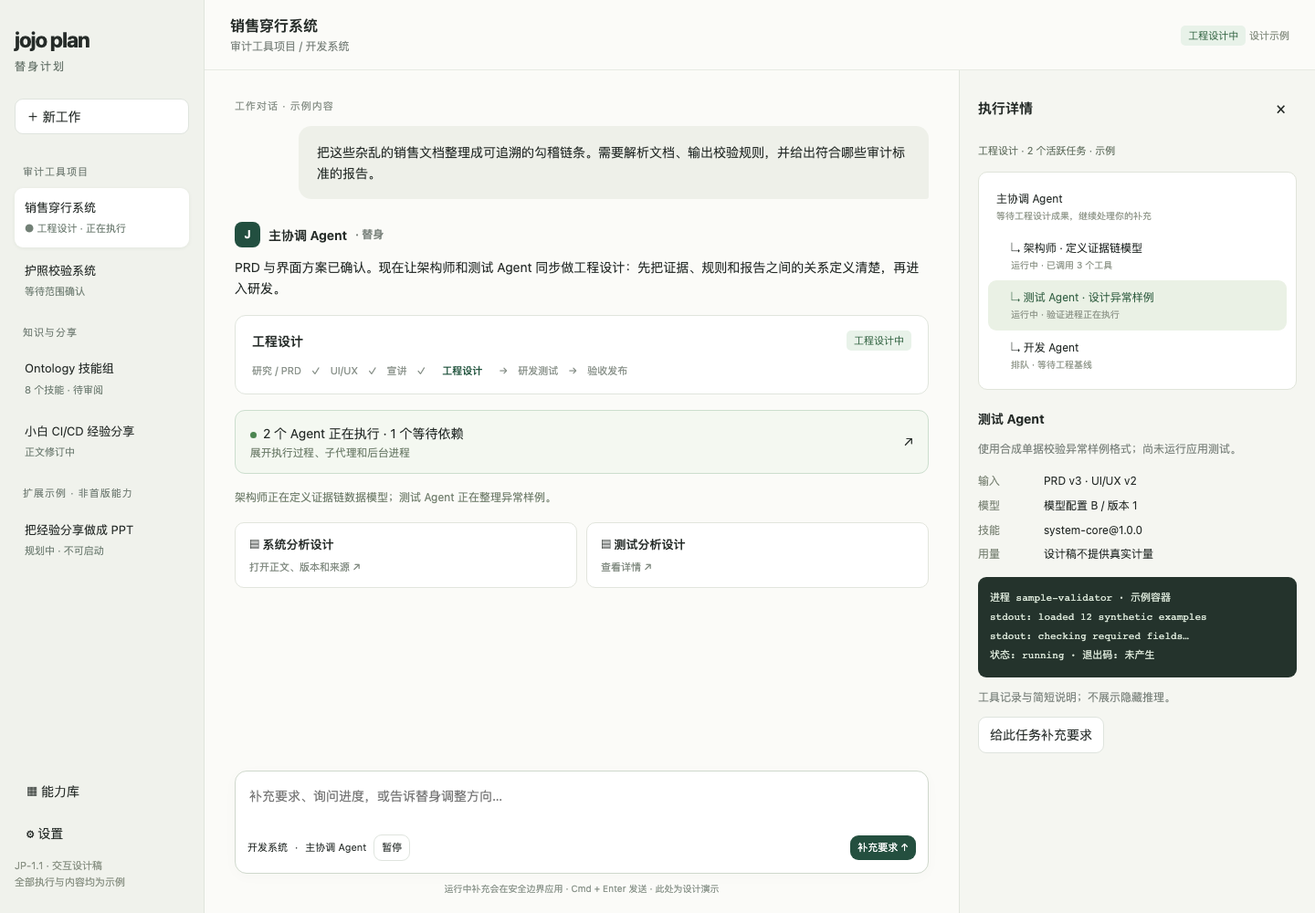
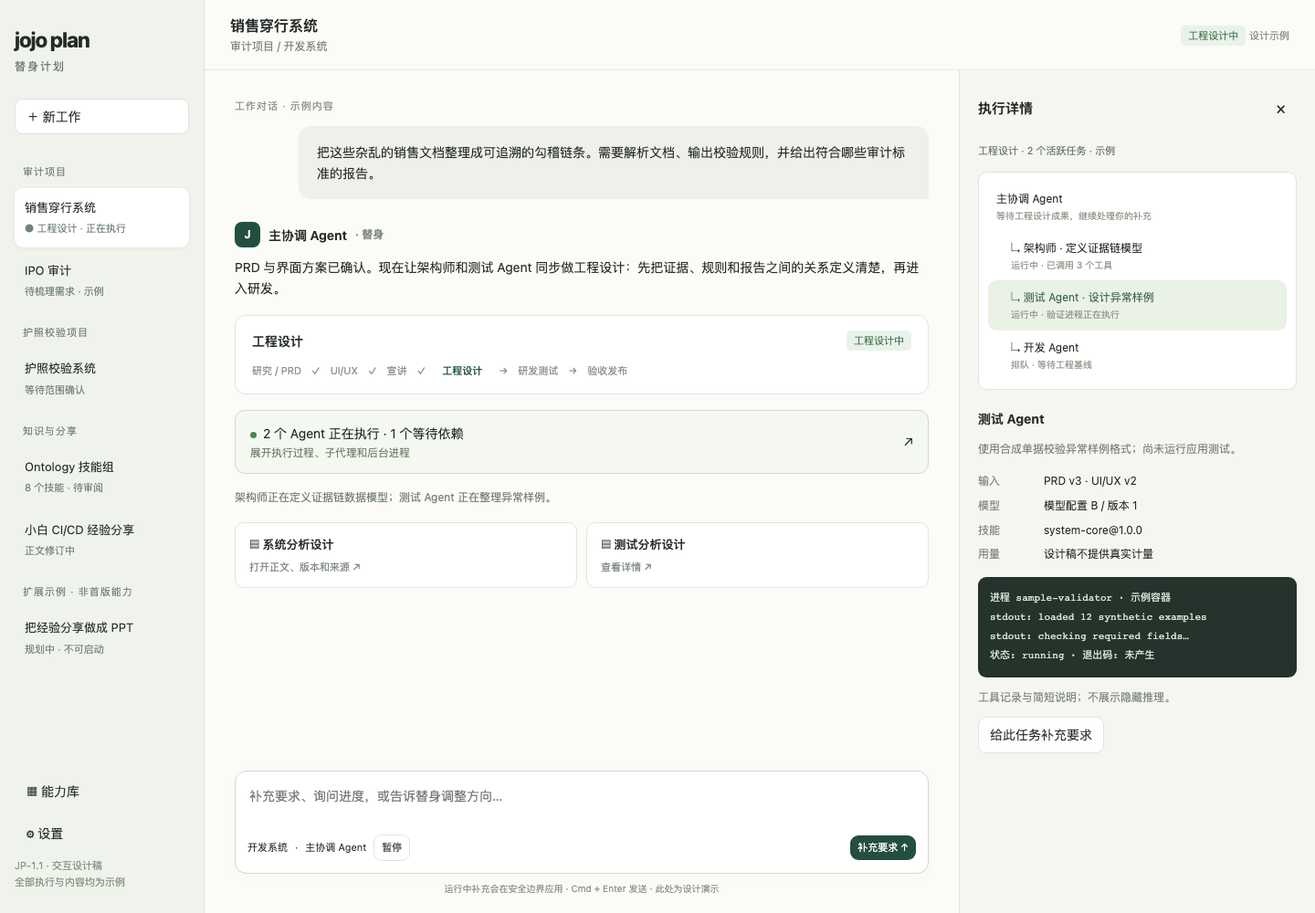
Correct audit and passport project hierarchy

diff --git a/docs/design/screenboard.html b/docs/design/screenboard.html
@@ -2,7 +2,7 @@
 <style>
 *{box-sizing:border-box}body{margin:0;font:14px/1.65 -apple-system,BlinkMacSystemFont,"PingFang SC",sans-serif;color:#252b28;background:#fbfbf8}button,input,textarea,select{font:inherit}button{cursor:pointer;color:inherit}button:focus-visible,textarea:focus-visible,select:focus-visible{outline:3px solid #438c72;outline-offset:3px}button{border:1px solid #dfe4de;background:white;border-radius:9px;padding:7px 12px}button:hover{background:#eef3ee}.app{display:flex;height:100vh;min-height:550px;overflow:hidden}.side{width:224px;flex-shrink:0;background:#f0f2ec;border-right:1px solid #e0e5dc;padding:25px 16px;display:flex;flex-direction:column}.brand{font-size:23px;font-weight:750;letter-spacing:-1px}.brand small{display:block;font-size:12px;letter-spacing:2px;font-weight:400;color:#67746b}.new{margin:25px 0 18px;width:100%;text-align:left}.caption{color:#758078;font-size:11px;letter-spacing:1px;margin:14px 9px 7px}.tasknav{border:0;background:transparent;width:100%;text-align:left;padding:11px;border-radius:9px;margin:2px 0;font-size:13px}.tasknav.active{background:white;box-shadow:0 1px 4px #233b2710}.tasknav small{display:block;color:#728076;font-size:11px;margin-top:3px}.sidebottom{margin-top:auto;display:grid;gap:7px;padding-top:20px}.sidebottom button{text-align:left;background:transparent;border-color:transparent}.main{flex:1;min-width:0;display:flex;flex-direction:column;position:relative}.top{height:77px;flex-shrink:0;border-bottom:1px solid #e7eae3;padding:15px 28px;display:flex;justify-content:space-between;align-items:center;gap:12px}.title{font-weight:650;font-size:16px}.sub{font-size:12px;color:#7c847e}.tag{display:inline-block;font-size:11px;padding:2px 8px;border-radius:5px;background:#e8f2e9;color:#3c6b4b}.tag.amber{background:#faf0d8;color:#956529}.layout{flex:1;min-height:0;display:flex;position:relative}.conversation{flex:1;min-width:0;display:flex;flex-direction:column}.timeline{flex:1;overflow:auto;padding:30px max(24px,calc((100% - 760px)/2)) 22px}.eyebrow{color:#8b938b;font-size:11px;letter-spacing:1px}.user{margin:13px 0 25px 70px;background:#eef0e9;border-radius:14px 14px 3px 14px;padding:17px 20px;font-size:14px}.agenthead{display:flex;align-items:center;gap:9px;font-weight:650;margin:18px 0 10px}.avatar{display:inline-grid;place-items:center;background:#224f40;color:#fff;border-radius:8px;width:28px;height:28px;font-size:12px}.message p{margin:9px 0 16px}.plan{border:1px solid #e0e5dd;border-radius:12px;background:white;padding:16px 18px;margin:17px 0}.planline{display:flex;justify-content:space-between;gap:12px;align-items:center}.steps{display:flex;gap:7px;margin-top:12px;flex-wrap:wrap;color:#8b938c;font-size:11px}.steps b{color:#245640}.running{border:1px solid #ccdece;border-radius:11px;background:#f4f8f1;padding:13px 16px;display:flex;align-items:center;justify-content:space-between;gap:12px;width:100%;text-align:left}.running small{display:block;color:#71806e}.dot{display:inline-block;width:7px;height:7px;background:#4c8651;border-radius:50%;margin-right:7px}.artifacts{display:grid;grid-template-columns:1fr 1fr;gap:10px;margin:17px 0}.artifact{text-align:left;padding:13px 15px;border:1px solid #e2e5dd;border-radius:10px;background:white}.artifact strong{display:block;font-size:13px}.artifact small{display:block;color:#808a80;font-size:11px;margin-top:5px}.update{color:#73806f;font-size:12px;margin:16px 0}.composerwrap{padding:10px max(24px,calc((100% - 760px)/2)) 19px}.composer{border:1px solid #cfd8cc;border-radius:13px;background:white;box-shadow:0 3px 16px #23432806;padding:13px}.composer textarea{border:0;width:100%;resize:none;outline:0;background:transparent;min-height:43px}.composebar{display:flex;align-items:center;gap:8px;font-size:11px;flex-wrap:wrap}.composebar button,.composebar select{font-size:11px;padding:4px 8px}.composebar select{border:0;background:#f2f4ee;border-radius:6px;max-width:160px}.send{margin-left:auto!important;background:#244f3f!important;color:white!important;border:0}.hint{font-size:10px;color:#8b958c;text-align:center;margin-top:8px}.inspector{display:none;width:390px;flex-shrink:0;border-left:1px solid #e0e5dd;background:#f5f6f1;overflow:auto;padding:20px}.inspector.open{display:block}.inshead{display:flex;justify-content:space-between;align-items:center;margin-bottom:15px}.inshead h3{font-size:15px;margin:0}.close{border:0;background:transparent;font-size:18px}.tree{border:1px solid #e0e4da;border-radius:10px;background:white;padding:10px;margin:14px 0}.tree button{display:block;text-align:left;width:100%;border:0;font-size:12px;background:transparent;padding:9px}.tree button.child{padding-left:25px}.tree button.selected{background:#eaf1e5;color:#366246}.tree small{display:block;color:#92998d}.detailtitle{font-size:14px;margin:20px 0 8px}.kv{display:grid;grid-template-columns:65px 1fr;gap:7px;font-size:12px;margin:15px 0}.kv dt{color:#7f887a}.kv dd{margin:0;overflow-wrap:anywhere}.log{background:#24332c;color:#d8e4d6;border-radius:9px;padding:13px;font:11px/1.9 ui-monospace,monospace;white-space:pre-wrap;overflow-wrap:anywhere}.notebox{background:#fbf3e1;border:1px solid #eee0bc;border-radius:8px;padding:10px 12px;font-size:12px;color:#81653c;margin:12px 0}.screen{display:none;overflow:auto;padding:36px;flex:1}.screen.active{display:block}.screen h1{font-size:28px;margin:15px 0}.lead{color:#717d70}.start{max-width:720px;margin:40px auto}.types{display:grid;grid-template-columns:repeat(3,1fr);gap:12px;margin:26px 0}.types button{text-align:left;padding:19px}.types small{display:block;color:#8a9386}.library{display:grid;grid-template-columns:repeat(2,minmax(0,1fr));gap:16px;max-width:900px}.card{padding:22px;background:white;border:1px solid #e0e5da;border-radius:12px}.card h3{margin:0 0 8px}.card p{font-size:13px;color:#717d70}.mocknotice{font-size:11px;color:#8b9386}.paper{background:white;border:1px solid #e5e8df;border-radius:8px;padding:20px;font-size:12px}.paper h2{font-size:18px}.paper h3{font-size:13px}.paper code{color:#3d7552}.deck{background:#e5eadf;border-radius:7px;padding:24px 18px;margin-top:14px;aspect-ratio:16/9}.deck h2{margin:0;font-size:24px;color:#244d3a}.deck p{font-size:11px}.statusline{font-size:11px;color:#6a7768}.hidden{display:none!important}@media(max-width:1250px){.inspector.open{position:absolute;right:0;top:0;bottom:0;width:min(440px,85%);z-index:4;box-shadow:-14px 0 50px #20352918}.side{width:200px}.timeline,.composerwrap{padding-left:28px;padding-right:28px}}@media(max-width:750px){.side{width:150px;padding:15px 8px}.top{padding:12px}.timeline,.composerwrap{padding-left:15px;padding-right:15px}.user{margin-left:15px}.artifacts,.types,.library{grid-template-columns:1fr}.screen{padding:20px}.top .mocknotice{display:none}}
 </style>
-<div class="app"><aside class="side"><div class="brand">jojo plan<small>替身计划</small></div><button class="new" data-screen="UI-01">＋ 新工作</button><div class="caption">审计工具项目</div><button class="tasknav active" data-task="system">销售穿行系统<small>● 工程设计 · 正在执行</small></button><button class="tasknav" data-task="passport">护照校验系统<small>等待范围确认</small></button><div class="caption">知识与分享</div><button class="tasknav" data-task="skill">Ontology 技能组<small>8 个技能 · 待审阅</small></button><button class="tasknav" data-task="document">小白 CI/CD 经验分享<small>正文修订中</small></button><div class="caption">扩展示例 · 非首版能力</div><button class="tasknav" data-task="presentation">把经验分享做成 PPT<small>规划中 · 不可启动</small></button><div class="sidebottom"><button data-screen="UI-04">▦ 能力库</button><button data-screen="UI-05">⚙ 设置</button><div class="mocknotice">JP-1.1 · 交互设计稿<br>全部执行与内容均为示例</div></div></aside><main class="main"><header class="top"><div><div class="title" id="worktitle">销售穿行系统</div><div class="sub" id="worksubtitle">审计工具项目 / 开发系统</div></div><div><span class="tag" id="state">工程设计中</span> <span class="mocknotice">设计示例</span></div></header>
+<div class="app"><aside class="side"><div class="brand">jojo plan<small>替身计划</small></div><button class="new" data-screen="UI-01">＋ 新工作</button><div class="caption">审计项目</div><button class="tasknav active" data-task="system">销售穿行系统<small>● 工程设计 · 正在执行</small></button><button class="tasknav" data-task="ipo">IPO 审计<small>待梳理需求 · 示例</small></button><div class="caption">护照校验项目</div><button class="tasknav" data-task="passport">护照校验系统<small>等待范围确认</small></button><div class="caption">知识与分享</div><button class="tasknav" data-task="skill">Ontology 技能组<small>8 个技能 · 待审阅</small></button><button class="tasknav" data-task="document">小白 CI/CD 经验分享<small>正文修订中</small></button><div class="caption">扩展示例 · 非首版能力</div><button class="tasknav" data-task="presentation">把经验分享做成 PPT<small>规划中 · 不可启动</small></button><div class="sidebottom"><button data-screen="UI-04">▦ 能力库</button><button data-screen="UI-05">⚙ 设置</button><div class="mocknotice">JP-1.1 · 交互设计稿<br>全部执行与内容均为示例</div></div></aside><main class="main"><header class="top"><div><div class="title" id="worktitle">销售穿行系统</div><div class="sub" id="worksubtitle">审计项目 / 开发系统</div></div><div><span class="tag" id="state">工程设计中</span> <span class="mocknotice">设计示例</span></div></header>
 <section class="screen" id="UI-01"><div class="start"><div class="eyebrow">一段对话，一起把工作做完</div><h1>这次想完成什么？</h1><p class="lead">给替身一个目标。它会整理计划、加载技能，并在关键阶段与你确认。</p><div class="types"><button data-task="skill">制作 Skill<small>研究 → 方法 → 可复用技能</small></button><button data-task="document">写文档<small>大纲 → 内容 → 证据核查</small></button><button data-task="system">开发系统<small>产品 → 设计 → 研发交付</small></button></div><div class="composer"><textarea aria-label="新的工作目标" placeholder="例如：根据这些销售单据，开发一个能追溯勾稽链条的审计系统"></textarea><div class="composebar"><span>材料、期望成果也可以稍后补充</span><button class="send" id="example">查看示例工作</button></div></div><p class="mocknotice">实际产品会先显示启动计划、预算和权限；本稿仅演示界面结构。</p></div></section>
 <div class="layout" id="UI-02"><section class="conversation"><div class="timeline" id="timeline" aria-label="工作对话"></div><div class="composerwrap"><div class="composer"><textarea id="input" aria-label="补充工作要求" placeholder="补充要求、询问进度，或告诉替身调整方向…"></textarea><div class="composebar"><span id="typechip">开发系统</span><span>·</span><span>主协调 Agent</span><button id="pause">暂停</button><button class="send" id="send">补充要求 ↑</button></div></div><div class="hint" id="hint">运行中补充会在安全边界应用 · Cmd + Enter 发送 · 此处为设计演示</div></div></section><aside class="inspector" id="UI-03" aria-label="工作详情"></aside></div>
 <section class="screen" id="UI-04"><div class="eyebrow">能力库 / 工作包</div><h1>同一个工作区，不同的工作方法</h1><p class="lead">工作包组合阶段、角色、技能与工具。新工作类型不会增加一排导航。</p><div class="library"><div class="card"><h3>制作 Skill <span class="tag">首版</span></h3><p>调研、编写、验证与审阅。技能和技能组保留版本。</p><button data-task="skill">查看示例</button></div><div class="card"><h3>写文档 <span class="tag">首版</span></h3><p>大纲、正文、来源核查，多格式交付。</p><button data-task="document">查看示例</button></div><div class="card"><h3>开发系统 <span class="tag">首版</span></h3><p>产品 → UX → 工程设计 → 研发测试 → 综合验收 → 发布。</p><button data-task="system">查看示例</button></div><div class="card"><h3>写 PPT <span class="tag amber">规划中</span></h3><p>需求 → 故事线 → 逐页内容 → 排版渲染 → 审阅。待接入 PPTX 生成和渲染能力。</p><button data-task="presentation">查看扩展说明</button></div></div></section>
@@ -10,9 +10,9 @@
 </main></div>
 <script>
 const $=s=>document.querySelector(s);let current='system',selectedAgent='architect',lastTrigger=null;
-const data={system:{title:'销售穿行系统',sub:'审计工具项目 / 开发系统',type:'开发系统',state:'工程设计中',user:'把这些杂乱的销售文档整理成可追溯的勾稽链条。需要解析文档、输出校验规则，并给出符合哪些审计标准的报告。',reply:'PRD 与界面方案已确认。现在让架构师和测试 Agent 同步做工程设计：先把证据、规则和报告之间的关系定义清楚，再进入研发。',plan:'工程设计',steps:'研究 / PRD　✓　UI/UX　✓　宣讲　✓　<b>工程设计</b>　→　研发测试　→　验收发布',run:'2 个 Agent 正在执行 · 1 个等待依赖',activity:'架构师正在定义证据链数据模型；测试 Agent 正在整理异常样例。',a:'系统分析设计',b:'测试分析设计'},passport:{title:'护照校验系统',sub:'审计工具项目 / 开发系统',type:'开发系统',state:'等待范围确认',user:'客户会传来一张带人脸的护照页图片，需要判断它是不是假的。',reply:'我会先研究单张图片能支持哪些判断。图片篡改风险、版式异常和证件真伪不是同一个结论，先明确输出边界，再让团队设计系统。',plan:'研究与需求范围',steps:'<b>研究 / PRD</b>　→　UI/UX　→　工程设计　→　研发测试',run:'待你确认 · 当前没有活跃 Agent',activity:'建议输出可疑点与证据不足状态；正式范围需在 PRD 审阅卡确认。',a:'能力范围研究',b:'待确认问题'},skill:{title:'Ontology 技能组',sub:'知识与分享 / 制作 Skill',type:'制作 Skill',state:'待审阅',user:'把从模糊需求开展 ontology 分析的方法做成一组可复用技能。',reply:'8 个技能的草稿已整理成一个版本化技能组。每个技能说明输入、输出和适用范围；下一步审阅组内依赖与验证结果。',plan:'技能组审阅',steps:'需求　✓　调研　✓　编写　✓　验证　→　<b>审阅</b>',run:'无活跃 Agent · 等待技能组审阅',activity:'这里的数量和状态仅演示界面，不表示真实技能已经生成或验证。',a:'Ontology 技能组',b:'技能验证报告'},document:{title:'小白 CI/CD 经验分享',sub:'知识与分享 / 写文档',type:'写文档',state:'正文修订中',user:'整理一份小白也能看懂的 CI/CD 经验分享，讲清楚我遇到的问题和解决办法。',reply:'我会保留你提供的真实经历，把流水线概念放在具体例子里解释。写作 Agent 正在调整内容，缺少原始经历的部分会标为待补充。',plan:'正文与来源核查',steps:'需求　✓　大纲　✓　<b>正文修订</b>　→　核查　→　审阅',run:'1 个 Agent 正在执行',activity:'写作 Agent：将部署失败案例改写为步骤和排查清单。',a:'经验分享 · 草稿',b:'来源与待补充项'},presentation:{title:'把经验分享做成 PPT',sub:'扩展示例 / 规划中的工作包',type:'写 PPT · 规划中',state:'尚不可启动',user:'把这份 CI/CD 经验分享做成面向新人培训的 PPT，保留可编辑版本和讲稿。',reply:'这是一种新的工作类型，仍使用这条对话、执行详情和成果预览。接入 PPTX 生成与渲染能力后，替身才能按下面的流程工作；当前仅展示扩展方案。',plan:'拟议 PPT 工作流程',steps:'需求　→　故事线　→　逐页内容　→　排版渲染　→　审阅',run:'缺少 2 项能力 · 没有真实执行',activity:'需要接入 pptx.generate 与 pptx.render，并通过可编辑性和页面渲染检查。',a:'故事线 · 示例',b:'页面预览 · 示例'}};
+const data={system:{title:'销售穿行系统',sub:'审计项目 / 开发系统',type:'开发系统',state:'工程设计中',user:'把这些杂乱的销售文档整理成可追溯的勾稽链条。需要解析文档、输出校验规则，并给出符合哪些审计标准的报告。',reply:'PRD 与界面方案已确认。现在让架构师和测试 Agent 同步做工程设计：先把证据、规则和报告之间的关系定义清楚，再进入研发。',plan:'工程设计',steps:'研究 / PRD　✓　UI/UX　✓　宣讲　✓　<b>工程设计</b>　→　研发测试　→　验收发布',run:'2 个 Agent 正在执行 · 1 个等待依赖',activity:'架构师正在定义证据链数据模型；测试 Agent 正在整理异常样例。',a:'系统分析设计',b:'测试分析设计'},ipo:{title:'IPO 审计',sub:'审计项目 / 开发系统',type:'开发系统',state:'待梳理需求',user:'在审计项目中开展 IPO 审计相关工作。',reply:'先明确此次工作的目标、适用范围和交付物，再选择需要加载的流程和技能。当前仅展示项目归属，不预设具体审计要求。',plan:'需求梳理',steps:'<b>明确目标与范围</b>　→　确定交付物　→　制定计划',run:'尚未启动 · 当前没有活跃 Agent',activity:'IPO 审计与销售穿行属于同一个审计项目，各自保留工作对话和成果。',a:'需求范围 · 待整理',b:'交付清单 · 待明确'},passport:{title:'护照校验系统',sub:'护照校验项目 / 开发系统',type:'开发系统',state:'等待范围确认',user:'客户会传来一张带人脸的护照页图片，需要判断它是不是假的。',reply:'我会先研究单张图片能支持哪些判断。图片篡改风险、版式异常和证件真伪不是同一个结论，先明确输出边界，再让团队设计系统。',plan:'研究与需求范围',steps:'<b>研究 / PRD</b>　→　UI/UX　→　工程设计　→　研发测试',run:'待你确认 · 当前没有活跃 Agent',activity:'建议输出可疑点与证据不足状态；正式范围需在 PRD 审阅卡确认。',a:'能力范围研究',b:'待确认问题'},skill:{title:'Ontology 技能组',sub:'知识与分享 / 制作 Skill',type:'制作 Skill',state:'待审阅',user:'把从模糊需求开展 ontology 分析的方法做成一组可复用技能。',reply:'8 个技能的草稿已整理成一个版本化技能组。每个技能说明输入、输出和适用范围；下一步审阅组内依赖与验证结果。',plan:'技能组审阅',steps:'需求　✓　调研　✓　编写　✓　验证　→　<b>审阅</b>',run:'无活跃 Agent · 等待技能组审阅',activity:'这里的数量和状态仅演示界面，不表示真实技能已经生成或验证。',a:'Ontology 技能组',b:'技能验证报告'},document:{title:'小白 CI/CD 经验分享',sub:'知识与分享 / 写文档',type:'写文档',state:'正文修订中',user:'整理一份小白也能看懂的 CI/CD 经验分享，讲清楚我遇到的问题和解决办法。',reply:'我会保留你提供的真实经历，把流水线概念放在具体例子里解释。写作 Agent 正在调整内容，缺少原始经历的部分会标为待补充。',plan:'正文与来源核查',steps:'需求　✓　大纲　✓　<b>正文修订</b>　→　核查　→　审阅',run:'1 个 Agent 正在执行',activity:'写作 Agent：将部署失败案例改写为步骤和排查清单。',a:'经验分享 · 草稿',b:'来源与待补充项'},presentation:{title:'把经验分享做成 PPT',sub:'扩展示例 / 规划中的工作包',type:'写 PPT · 规划中',state:'尚不可启动',user:'把这份 CI/CD 经验分享做成面向新人培训的 PPT，保留可编辑版本和讲稿。',reply:'这是一种新的工作类型，仍使用这条对话、执行详情和成果预览。接入 PPTX 生成与渲染能力后，替身才能按下面的流程工作；当前仅展示扩展方案。',plan:'拟议 PPT 工作流程',steps:'需求　→　故事线　→　逐页内容　→　排版渲染　→　审阅',run:'缺少 2 项能力 · 没有真实执行',activity:'需要接入 pptx.generate 与 pptx.render，并通过可编辑性和页面渲染检查。',a:'故事线 · 示例',b:'页面预览 · 示例'}};
 function show(id){$('.layout').classList.toggle('hidden',id!=='UI-02');document.querySelectorAll('.screen').forEach(x=>x.classList.toggle('active',x.id===id));if(id!=='UI-02'){$('#worktitle').textContent=id==='UI-01'?'开始新的工作':id==='UI-04'?'能力库':'设置';$('#worksubtitle').textContent='jojo plan · 替身计划';$('#state').textContent='设计示例';}close();}
-function task(key){current=key;show('UI-02');const d=data[key];$('#worktitle').textContent=d.title;$('#worksubtitle').textContent=d.sub;$('#state').textContent=d.state;$('#typechip').textContent=d.type;$('#input').value='';$('#pause').textContent='暂停';$('#pause').disabled=['presentation','skill','passport'].includes(key);$('#send').disabled=key==='presentation';$('#hint').textContent=key==='presentation'?'扩展设计示例 · 当前不可启动 PPT 生成':'运行中补充会在安全边界应用 · Cmd + Enter 发送 · 此处为设计演示';document.querySelectorAll('.tasknav').forEach(x=>x.classList.toggle('active',x.dataset.task===key));$('#timeline').innerHTML=`<div class="eyebrow">工作对话 · 示例内容</div><div class="user">${d.user}</div><div class="agenthead"><span class="avatar">J</span>主协调 Agent <span class="sub">· 替身</span></div><div class="message"><p>${d.reply}</p><div class="plan"><div class="planline"><strong>${d.plan}</strong><span class="tag">${d.state}</span></div><div class="steps">${d.steps}</div></div><button class="running" data-inspect="execution"><span><span class="dot"></span>${d.run}<small>展开执行过程、子代理和后台进程</small></span><span>↗</span></button><div class="update">${d.activity}</div><div class="artifacts"><button class="artifact" data-inspect="artifact"><strong>▤ ${d.a}</strong><small>打开正文、版本和来源 ↗</small></button><button class="artifact" data-inspect="secondary"><strong>▤ ${d.b}</strong><small>查看详情 ↗</small></button></div></div>`;}
+function task(key){current=key;show('UI-02');const d=data[key];$('#worktitle').textContent=d.title;$('#worksubtitle').textContent=d.sub;$('#state').textContent=d.state;$('#typechip').textContent=d.type;$('#input').value='';$('#pause').textContent='暂停';$('#pause').disabled=['presentation','skill','passport','ipo'].includes(key);$('#send').disabled=key==='presentation';$('#hint').textContent=key==='presentation'?'扩展设计示例 · 当前不可启动 PPT 生成':'运行中补充会在安全边界应用 · Cmd + Enter 发送 · 此处为设计演示';document.querySelectorAll('.tasknav').forEach(x=>x.classList.toggle('active',x.dataset.task===key));$('#timeline').innerHTML=`<div class="eyebrow">工作对话 · 示例内容</div><div class="user">${d.user}</div><div class="agenthead"><span class="avatar">J</span>主协调 Agent <span class="sub">· 替身</span></div><div class="message"><p>${d.reply}</p><div class="plan"><div class="planline"><strong>${d.plan}</strong><span class="tag">${d.state}</span></div><div class="steps">${d.steps}</div></div><button class="running" data-inspect="execution"><span><span class="dot"></span>${d.run}<small>展开执行过程、子代理和后台进程</small></span><span>↗</span></button><div class="update">${d.activity}</div><div class="artifacts"><button class="artifact" data-inspect="artifact"><strong>▤ ${d.a}</strong><small>打开正文、版本和来源 ↗</small></button><button class="artifact" data-inspect="secondary"><strong>▤ ${d.b}</strong><small>查看详情 ↗</small></button></div></div>`;}
 function close(){const was=$('#UI-03').classList.contains('open');$('#UI-03').classList.remove('open');if(was&&lastTrigger?.isConnected)lastTrigger.focus();}
 function inspect(mode,trigger){lastTrigger=trigger||lastTrigger;const d=data[current];let content='';
 if(mode==='execution'){

diff --git a/docs/spec/04-ux-spec.md b/docs/spec/04-ux-spec.md
@@ -99,3 +99,7 @@ flowchart LR
 Cmd+N新工作；Cmd+Enter发送；Enter默认换行，输入法组合期间禁止误发送；Esc关闭详情并恢复触发点焦点。Tab按阅读顺序，覆盖抽屉/弹层管理焦点；日志默认不自动抢焦点，用户向上阅读后不强制滚到底；新消息用温和计数提示。停止/失败/等待均有文字。200%缩放可阅读，宽表只在自身滚动；禁止快捷键直接批准生产。
 
 组件：ConversationTimeline、Composer、PlanCard、ExecutionSummary、AgentTree、AgentInspector、ProcessLog、ArtifactCard/Preview、DecisionCard、ChangeImpact、UsageMeter、WorkTypePicker。正文、日志长列表虚拟化；200ms内反馈点击/输入状态为目标，模型延迟另列。所有界面状态来源为持久化服务和事件；设计稿演示状态不能当真实执行证据。
+
+## 项目层级澄清（用户确认）
+
+审计项目与护照校验项目为同级项目。审计项目下可有销售穿行、IPO 审计等工作；护照校验系统的工作属于独立的护照校验项目，不放在审计项目下。项目是业务归属，工作类型（制作 Skill、写文档、开发系统等）是执行方式，两者不能混为同一分类。IPO 审计在本稿仅作为归属示例，具体范围与交付要求尚未定义。
